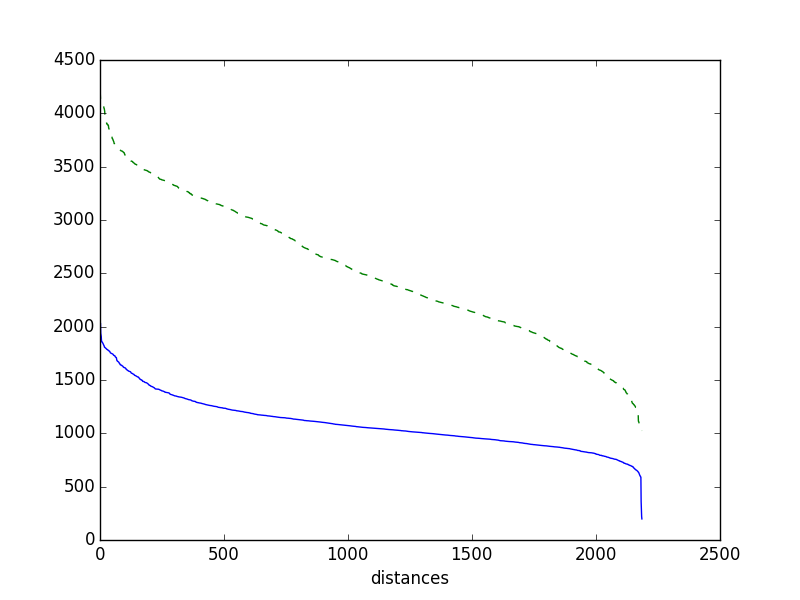
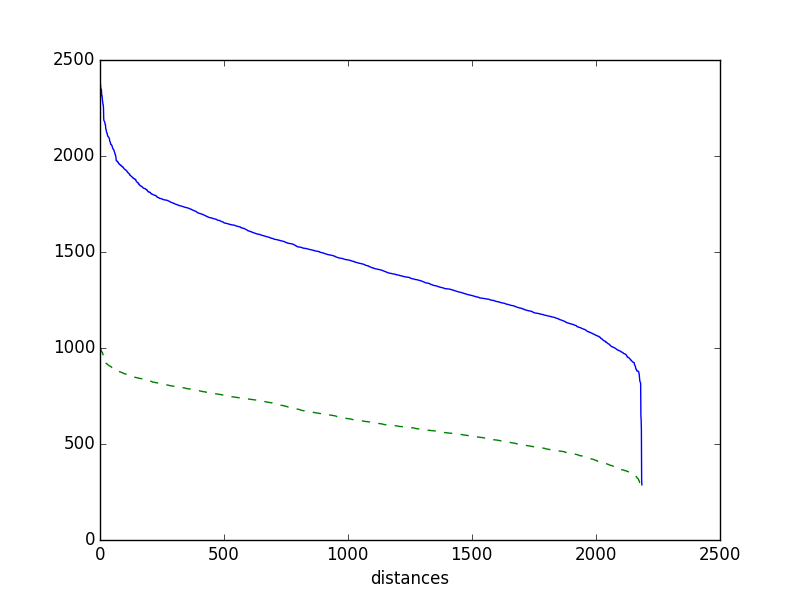
nearest indices output added

diff --git a/eigenfaces/test/test_training.py b/eigenfaces/test/test_training.py
@@ -48,7 +48,7 @@ class Test(unittest.TestCase):
                              [-1.5,-2.5,-3.,-2.25],
                              [-0.5,-1.5,-2.,-1.25],
                              [ 0.5,-0.5,-1.,-0.25]])
-        
+
         npt.assert_equal(actual, expected)
 
     def test_compute_covariance(self):
@@ -92,17 +92,32 @@ class Test(unittest.TestCase):
                                  [1, 3, 4, 2],
                                  [1, 3, 4, 2],
                                  [1, 3, 4, 2]])
-                                 
+
         expected_sorted_eigenvalues = np.array([4, 3, 2, 1])
         expected_sorted_eigenvectors = np.array([[4, 3, 2, 1],
                                                  [4, 3, 2, 1],
                                                  [4, 3, 2, 1],
                                                  [4, 3, 2, 1]])
-                                                 
+
         actual_sorted_eigenvalues, actual_sorted_eigenvectors = tr.sort_eigenpairs(eigenvalues, eigenvectors)
-        
-        npt.assert_equal(actual_sorted_eigenvalues, expected_sorted_eigenvalues)                                         
+
+        npt.assert_equal(actual_sorted_eigenvalues, expected_sorted_eigenvalues)
         npt.assert_equal(actual_sorted_eigenvectors, expected_sorted_eigenvectors)
+
+    def test_compute_distances_all(self):
+        sample = np.array([[1, 1, 1], [2, 2, 2]])
+
+        dataset = np.array([[1, 0, 1], [2, 3, 4], [3, 3, 3]])
+
+        expected = np.array([[14, 12, 1], [6, 5, 3]]).T
+
+        expected_nearest = [0, 2]
+
+        actual, actual_nearest = tr.compute_distances_all(sample, dataset)
+
+        npt.assert_equal(actual, expected)
+        npt.assert_equal(actual_nearest, expected_nearest)
+
 
 if __name__ == "__main__":
     # import sys;sys.argv = ['', 'Test.test_divide_dataset_into_train_and_test_sets']

diff --git a/eigenfaces/src/training.py b/eigenfaces/src/training.py
@@ -12,6 +12,7 @@ def divide_dataset_into_train_test(dataset, ratio=0.9):
     :param ratio: the ratio of training set size w.r.t. the data set size
     :return: a tuple containing two arrays, (training set, test set)
     '''
+
     shuffled = random.permutation(dataset)
     boundary = int(len(dataset) * ratio)
     X_train = np.array(shuffled[:boundary])
@@ -41,7 +42,7 @@ def compute_eigenvalues(cov):
 
 def sort_eigenpairs(eigenvalues, eigenvectors):
     indices = np.argsort(eigenvalues)[::-1]
-    return eigenvalues[indices], eigenvectors.T[indices].T
+    return eigenvalues[indices], eigenvectors[:,indices]
 
 
 def extract_sample(array, size):
@@ -58,17 +59,19 @@ def compute_distances_all(sample, dataset):
         distances.append(dist)
 
     distances = np.array(distances).reshape(len(distances), sample.shape[0])
+    indices = np.argsort(distances, axis=0)[::-1]
+    nearest = indices[-1,:]
     distances = np.sort(distances, axis=0)[::-1]
 
-    return distances
+    return distances, nearest
 
 
 def project(X_train, v, cut_index):
-    subspace = v[:, :cut_index]
+    subspace = v[:cut_index, :]
 
     # training data contains image per row
     # so we need to transpose to match
     # eigenvector subspace dimensions
     # and transpose back to match the original
     # dataset transposition
-    return np.dot(subspace.T, X_train.T).T
+    return np.dot(subspace, X_train.T).T

diff --git a/eigenfaces/main.py b/eigenfaces/main.py
@@ -77,19 +77,16 @@ if __name__ == '__main__':
 
     print 'Plotting Euclidean distance between some of the test set instances and training set...'
     X_test_sample_m = tr.extract_sample(X_test, TEST_SAMPLE_SIZE)
-    distances = tr.compute_distances_all(X_test_sample_m, X_train)
+    distances, nearest = tr.compute_distances_all(X_test_sample_m, X_train)
     plot.dist_values(distances, filename='distances_highdim.png')
     print 'Done. See distances_highdim.png'
     print ''
 
-    print 'Projecting the dataset into the subspace...'
-    v_sub = v.T[:cut_index].T
-    print v_sub.shape
+    print 'Projecting the dataset and the samples into the subspace...'
     X_train_p = tr.project(X_train_m, v, cut_index)
     X_test_sample_p = tr.project(X_test_sample_m, v, cut_index)
 
-
-    distances_p = tr.compute_distances_all(X_test_sample_p, X_train_p)
+    distances_p, nearest_p = tr.compute_distances_all(X_test_sample_p, X_train_p)
     distances = np.vstack((distances.T, distances_p.T)).T
     distances = np.sqrt(distances)
 
@@ -97,3 +94,7 @@ if __name__ == '__main__':
 
     print 'Done. See X_dist_comparison.png'
     print ''
+
+    print 'Comparing original and subspace nearest neighbors for the samples...'
+    print nearest
+    print nearest_p
